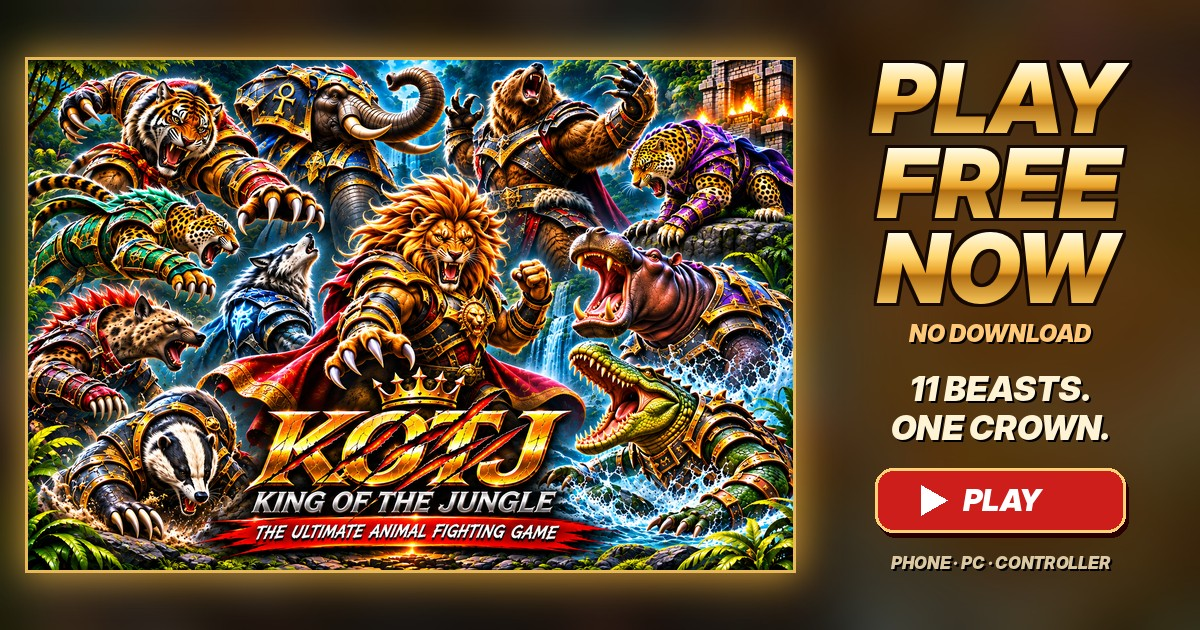
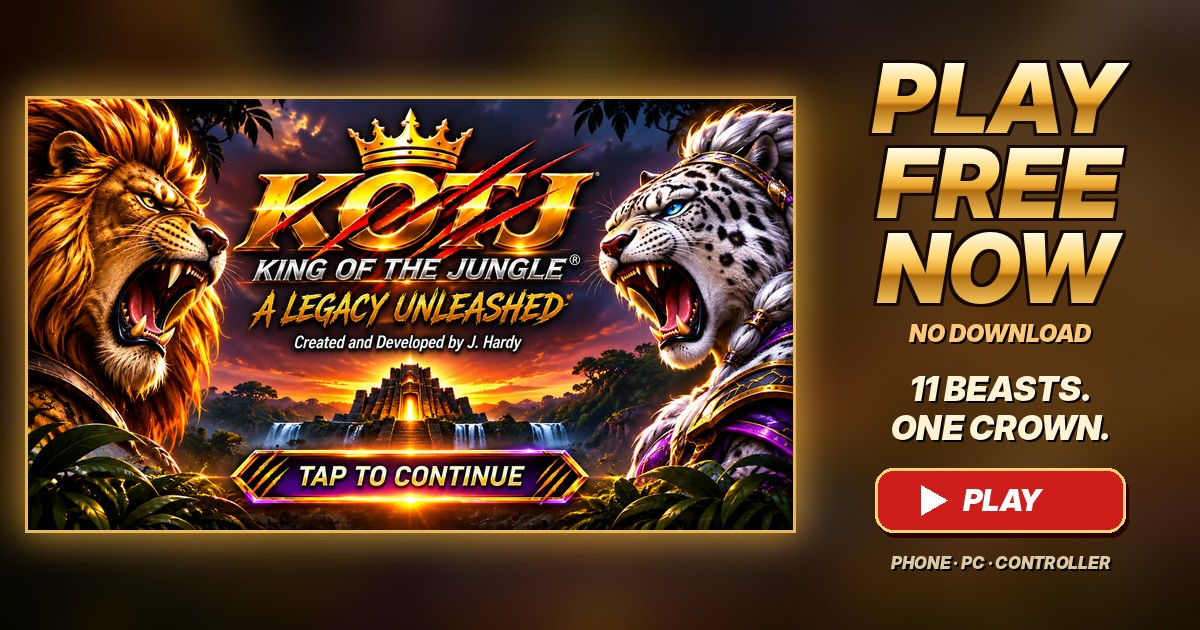
Build 5.2: new cover art; no zoom or scroll on any device
Claude-Session: https://claude.ai/code/session_01Wp8cgZvzavvyA9CxcdgKRp

diff --git a/game/index.html b/game/index.html
@@ -1,23 +1,23 @@
 <!doctype html>
 <html lang="en">
 <head>
-  <meta charset="utf-8"><meta name="viewport" content="width=device-width,initial-scale=1">
+  <meta charset="utf-8"><meta name="viewport" content="width=device-width,initial-scale=1,maximum-scale=1,user-scalable=no,viewport-fit=cover">
   <meta name="theme-color" content="#10150f"><title>King of the Jungle</title>
   <meta name="description" content="King of the Jungle: the ultimate animal fighting game. 11 armored beasts, Tower Mode and Ultra combos. Play free in your browser on phone, PC or controller. Created and Developed by J. Hardy.">
   <meta property="og:type" content="website"><meta property="og:url" content="https://kingofthejunglegame.netlify.app/"><meta property="og:site_name" content="King of the Jungle">
   <meta property="og:title" content="KOTJ: King of the Jungle · Play Free Now">
   <meta property="og:description" content="11 armored beasts. One crown. Can you climb the Tower? Free in your browser on phone, PC or controller. No download.">
-  <meta property="og:image" content="https://kingofthejunglegame.netlify.app/og-cover.jpg?v=2"><meta property="og:image:width" content="1200"><meta property="og:image:height" content="630">
-  <meta name="twitter:card" content="summary_large_image"><meta name="twitter:image" content="https://kingofthejunglegame.netlify.app/og-cover.jpg?v=2">
+  <meta property="og:image" content="https://kingofthejunglegame.netlify.app/og-cover.jpg?v=3"><meta property="og:image:width" content="1200"><meta property="og:image:height" content="630">
+  <meta name="twitter:card" content="summary_large_image"><meta name="twitter:image" content="https://kingofthejunglegame.netlify.app/og-cover.jpg?v=3">
   <link rel="stylesheet" href="styles.css">
 </head>
 <body>
-  <div id="splash" aria-hidden="true"><div class="splash-blur"></div><img src="assets/ui/cover.webp" alt="King of the Jungle cover art"><div class="splash-hint">TAP OR PRESS ANY BUTTON TO CONTINUE</div></div>
+  <div id="splash" aria-hidden="true"><div class="splash-blur"></div><img src="assets/ui/cover.webp" alt="King of the Jungle cover art"><div class="splash-hint">OR PRESS ANY KEY / BUTTON</div></div>
   <script>(function(){var s=document.getElementById('splash'),done=0;function go(e){if(done)return;done=1;if(e){e.preventDefault&&e.preventDefault();e.stopPropagation&&e.stopPropagation()}s.classList.add('out');setTimeout(function(){s.remove()},700)}
   s.addEventListener('pointerdown',go);addEventListener('keydown',function(e){if(!done){go(e)}},{capture:true,once:true});(function pad(){if(done)return;var g=navigator.getGamepads?[].slice.call(navigator.getGamepads()):[];if(g.some(function(x){return x&&x.buttons.some(function(b){return b.pressed})})){go();return}requestAnimationFrame(pad)})()})();</script>
   <div id="backdrop" aria-hidden="true"><div class="bd-img bd-a"></div><div class="bd-img bd-b"></div><div class="bd-rays"></div><div class="bd-vignette"></div><canvas id="bd-embers"></canvas></div>
   <main id="app">
-    <header class="topbar"><img class="brand-crown" src="assets/ui/crown.webp" alt=""><div><div class="eyebrow">A LEGACY UNLEASHED</div><h1>KING OF THE JUNGLE</h1></div><div class="build-tag">WEB BUILD · 5.1</div></header>
+    <header class="topbar"><img class="brand-crown" src="assets/ui/crown.webp" alt=""><div><div class="eyebrow">A LEGACY UNLEASHED</div><h1>KING OF THE JUNGLE</h1></div><div class="build-tag">WEB BUILD · 5.2</div></header>
     <section id="menu" class="screen cover">
       <div class="cover-bg"></div><div class="cover-rays"></div><canvas id="embers" class="cover-embers"></canvas><div class="cover-vignette"></div>
       <div class="cover-hero"><div class="hero-glow"></div><img src="assets/characters/lion/lion-hero.webp" alt="The Lion, King of the Jungle"></div>
@@ -38,7 +38,7 @@
         </div>
       </div>
       <div class="cover-roster"><span>11 FIGHTERS · ONE THRONE</span><div id="cover-faces"></div></div>
-      <div class="cover-meta"><span id="cover-build">WEB BUILD · 5.1</span><span>© King of the Jungle · J. Hardy</span></div>
+      <div class="cover-meta"><span id="cover-build">WEB BUILD · 5.2</span><span>© King of the Jungle · J. Hardy</span></div>
     </section>
     <section id="select" class="screen hidden">
       <div class="section-head"><p class="eyebrow">CHARACTER SELECT</p><h2>CHOOSE YOUR FIGHTER</h2><p id="select-instruction">Player 1: choose a fighter</p></div>
@@ -67,4 +67,12 @@
     <footer><span>© KING OF THE JUNGLE</span><span>Created and Developed by J. Hardy</span></footer>
   </main>
   <script src="js/roster.js"></script><script src="js/story.js"></script><script src="js/sprites-hd.js"></script><script src="js/audio.js"></script><script src="js/game.js"></script>
+<script>(function(){var last=0;
+document.addEventListener('gesturestart',function(e){e.preventDefault()},{passive:false});
+document.addEventListener('gesturechange',function(e){e.preventDefault()},{passive:false});
+document.addEventListener('touchmove',function(e){if(e.touches.length>1)e.preventDefault()},{passive:false});
+document.addEventListener('touchend',function(e){var n=Date.now();if(n-last<350&&!(e.target.closest&&e.target.closest('input,textarea,select')))e.preventDefault();last=n},{passive:false});
+document.addEventListener('wheel',function(e){if(e.ctrlKey)e.preventDefault()},{passive:false});
+document.addEventListener('keydown',function(e){if((e.ctrlKey||e.metaKey)&&/^(=|\+|-|_|0)$/.test(e.key))e.preventDefault()});
+document.addEventListener('contextmenu',function(e){if(document.body.classList.contains('fighting'))e.preventDefault()});})();</script>
 </body></html>

diff --git a/game/styles.css b/game/styles.css
@@ -328,7 +328,7 @@ body.fighting.touch .fight-actions{top:auto;bottom:clamp(8px,2vh,16px)}
  body.fighting .pad-right .ins{width:40px!important;height:40px!important}
 }
 /* upright phones: full-width arena on top, controls underneath */
-@media (orientation:portrait) and (max-width:760px){
+@media (orientation:portrait) and (max-width:1100px){
  body.fighting .arena{inset:auto 0 auto 0!important;top:clamp(58px,9vh,80px)!important;height:62vw!important}
  body.fighting .fight-hud{background:linear-gradient(180deg,#000,rgba(0,0,0,.85))}
  body.fighting .rotate-hint{display:block;position:absolute;left:0;right:0;bottom:-34px;text-align:center;font:700 11px Inter;letter-spacing:.12em;color:#f4d58c}
@@ -338,7 +338,7 @@ body.fighting.touch .fight-actions{top:auto;bottom:clamp(8px,2vh,16px)}
  body.fighting #fight{background:radial-gradient(ellipse at 50% 30%,#2a1a0c,#050407 70%)}
 }
 
-@media (orientation:portrait) and (max-width:760px){
+@media (orientation:portrait) and (max-width:1100px){
  body.fighting .arena{top:clamp(62px,9vh,80px)!important;height:82vw!important}
  body.fighting .rotate-hint{bottom:-30px}
  body.fighting.touch .meter-row,body.fighting .meter-row{top:calc(clamp(62px,9vh,80px) + 82vw + 40px)!important;bottom:auto!important;background:none!important;padding-top:0!important}
@@ -355,7 +355,7 @@ body.fighting.paused .controls{top:62%}
  body.fighting.paused .fight-actions{top:22%!important}
  body.fighting.paused .controls{display:none!important}
 }
-@media (orientation:portrait) and (max-width:760px){
+@media (orientation:portrait) and (max-width:1100px){
  body.fighting.paused .fight-actions{top:calc(clamp(62px,9vh,80px) + 82vw + 74px)!important}
  body.fighting.paused .controls{display:none!important}
 }
@@ -413,3 +413,11 @@ body.fighting.paused .controls{top:62%}
 .story-fig{display:none;position:absolute;left:4vw;bottom:4vh;height:82vh;max-width:44vw;background-repeat:no-repeat;transition:filter 1.2s ease;pointer-events:none}
 .story-screen.has-fig .story-card{margin-left:min(36vw,520px);width:min(560px,56vw)}
 @media(max-width:800px),(orientation:portrait){.story-fig{left:50%;transform:translateX(-50%);height:60vh;max-width:90vw;opacity:.45}.story-screen.has-fig .story-card{margin-left:0;width:min(560px,92vw)}}
+
+/* Build 5.2: same look on every device, no accidental zoom or scroll */
+html,body{-webkit-text-size-adjust:100%;text-size-adjust:100%;overscroll-behavior:none;touch-action:manipulation}
+body.fighting{position:fixed;inset:0;overflow:hidden;touch-action:none;-webkit-user-select:none;user-select:none;-webkit-touch-callout:none}
+#game-canvas{touch-action:none}
+#splash img{bottom:0!important;height:100%!important}
+#splash .splash-hint{bottom:max(8px,env(safe-area-inset-bottom))!important;font-size:10px!important;opacity:.7}
+@media (pointer:coarse){#splash .splash-hint{display:none}}

diff --git a/game/js/game.js b/game/js/game.js
@@ -347,7 +347,7 @@ function loop(t){
    update(dt);
    if(!game.ko&&time===0){game.ko=2;banner('TIME','',1.6);say('Time');}
   }
-  game.zoom+=((game.ultra?1.18:1)-game.zoom)*Math.min(1,real*6);
+  game.zoom=1;
   if(game.ko){game.ko-=real;if(game.ko<=0){finish();return}}
  }
  draw();raf=requestAnimationFrame(loop);
@@ -784,7 +784,7 @@ function draw(){
  // ---- Fighting-game camera: fills any screen shape, follows the fighters, zooms in when they're close.
  const aspect=pw/ph,F=game.fighters,gap=Math.abs(F[0].x-F[1].x);
  let vh=Math.min(570,1210/aspect);                                    // largest view that stays inside the arena art
- const want=Math.max(1,Math.min(1.12,(vh*aspect*.9)/(gap+360)))*(game.zoom||1);
+ const want=1;   // steady camera on every device: it pans with the fighters but never zooms
  const kz=1-Math.pow(.92,frameDt*60),kp=1-Math.pow(.88,frameDt*60);cam.z+=(want-cam.z)*kz;vh/=cam.z;const vw=vh*aspect;
  const air=Math.min(F[0].y,F[1].y);                                   // keep jumping fighters in shot
  let tx=(F[0].x+F[1].x)/2-vw/2,ty=400-vh*.84+Math.min(0,air)*.5;
@@ -921,5 +921,6 @@ function drawGeneric(f,i){
 addUnlocked();if(secretUnlocked()&&!roster.includes(MAJIC))roster.push(MAJIC);
 forgottenMenu();
 render();show('menu');updateGuide();
+addEventListener('resize',()=>{cam.snap=true});addEventListener('orientationchange',()=>{cam.snap=true;setTimeout(()=>{cam.snap=true},300)});
 window.__kotj={get game(){return game},get tower(){return tower},arena:(i)=>{arena=ARENAS[i]},start:(m,a,b)=>{mode=m;picks=[roster.find(r=>r.id===a),roster.find(r=>r.id===b)];if(m==='tower'){tower={kind:'tower',player:picks[0],ladder:roster.filter(f=>BASE_IDS.includes(f.id)&&f.id!==a),index:0};picks[1]=tower.ladder[0];arena=towerArena()}start()},kb,sound:v=>{soundOn=v},finish:()=>finish(),towerFinal:()=>{tower.index=tower.ladder.length-1;picks=[tower.player,tower.ladder[tower.index]];arena=towerArena();start()}};
 })();

diff --git a/README.md b/README.md
@@ -322,3 +322,9 @@ The fight system is rebuilt around KI-style combo mechanics, with original names
 
 ## Web build 5.1: Old Leopard fully removed
 - The old Leopard sprite sheet is deleted. Its frames had already been replaced in 5.0, and no old Leopard frame, portrait or text is left in the game. The announcer now says "Snow Leopard wins!", and her Shadow and Ultra sound cues are relabelled.
+
+## Web build 5.2: New cover art; steady on every device
+- New cover art (Lion vs Snow Leopard) on the splash screen and the link preview. The splash always shows the whole picture, fitted to the screen, on phones, tablets and PCs, in portrait or landscape. A tap, click, key or controller button continues.
+- No zooming: pinch-zoom, double-tap zoom, Ctrl + scroll and Ctrl +/- are blocked, the page can't scroll or bounce during play, and the fight camera no longer zooms in and out. It pans with the fighters at a fixed size.
+- Upright tablets now get the same tidy layout as upright phones (arena on top, controls underneath), and the camera re-centers when the screen is rotated or resized.
+- Tested on PC (1366×768, 1920×1080), iPhone (portrait and landscape), iPad (portrait and landscape) and Android landscape. Touch buttons appear only on touch screens, keyboard and touch attacks register, and there's no page scroll and no errors.
